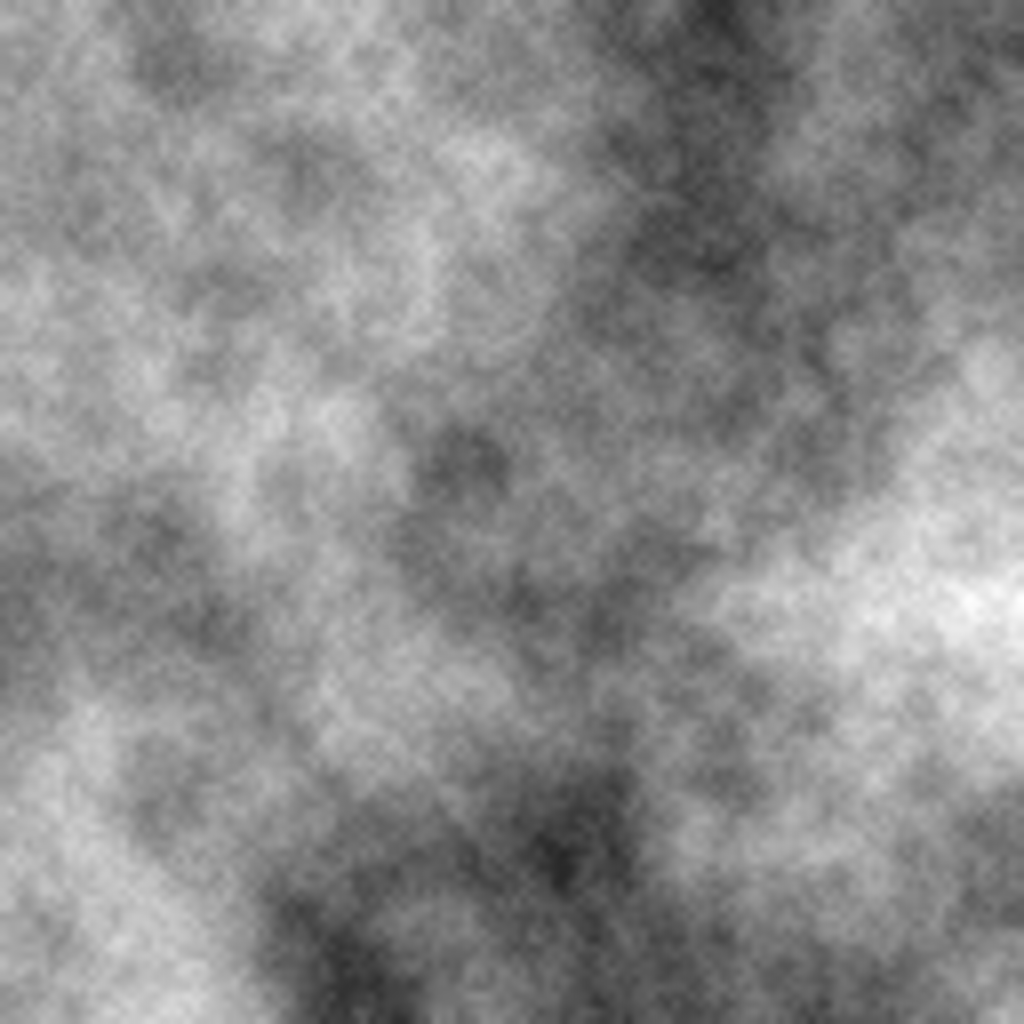
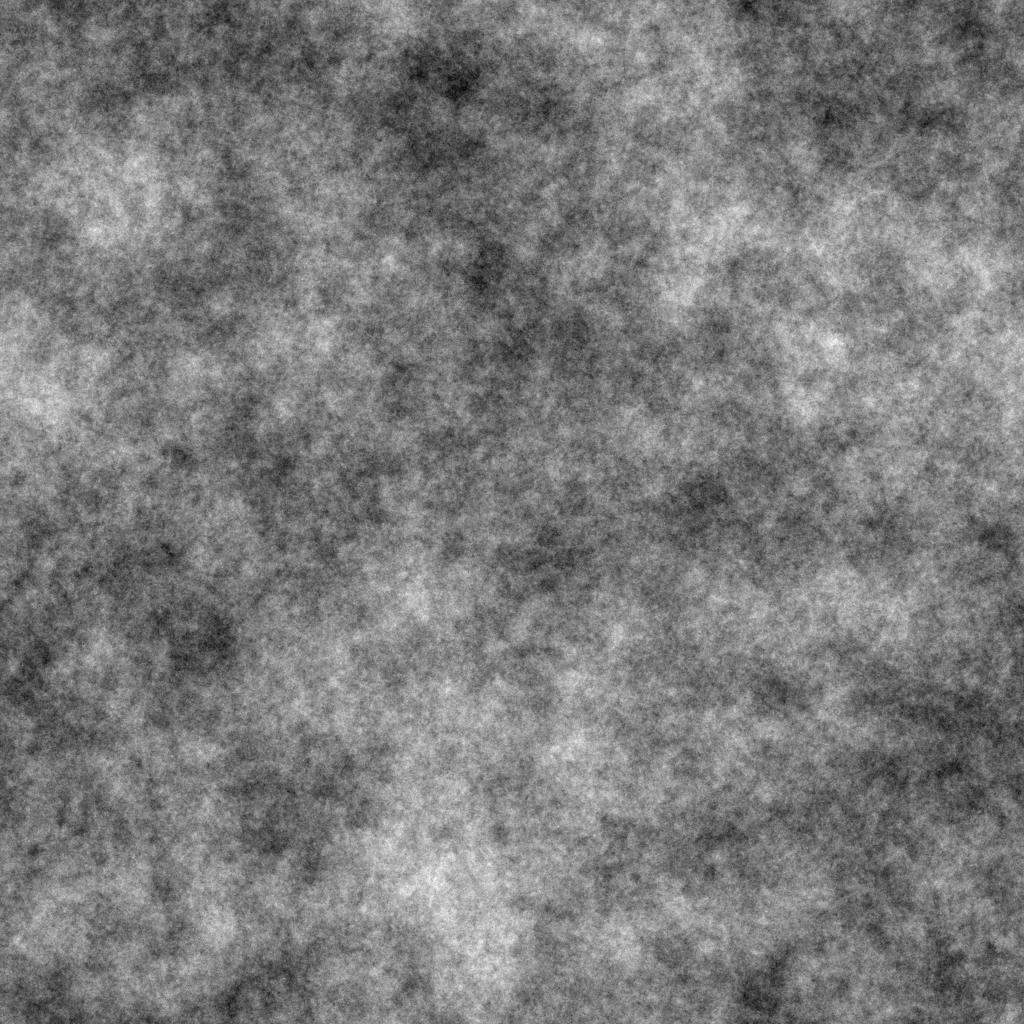
GTA 6 Short: seamless sea and relief textures (periodic noise), no tile seams
Claude-Session: https://claude.ai/code/session_01DMZ7CFPTajKZajZsT4vn8D

diff --git a/tools/gta6/prep_images.py b/tools/gta6/prep_images.py
@@ -42,19 +42,20 @@ for f in sorted(src.rglob("*.png")):
         print("poster", f.stem)
 
 rng = np.random.default_rng(5)
-def fbm(n, octs):
-    acc = np.zeros((n, n), np.float32)
-    for o in range(octs):
-        k = 2 ** (o + 2)
-        g = rng.random((k, k)).astype(np.float32)
-        acc += np.asarray(Image.fromarray((g * 255).astype(np.uint8)).resize((n, n), Image.BICUBIC), np.float32) / 255 / (o + 1)
-    return acc / acc.max()
+def fbm(n, beta):
+    """Periodic 1/f noise (FFT-filtered white noise): tiles seamlessly in both directions."""
+    f = np.fft.fftfreq(n)
+    r = np.sqrt(f[:, None] ** 2 + f[None, :] ** 2); r[0, 0] = 1
+    spec = np.fft.fft2(rng.standard_normal((n, n))) / r ** beta
+    spec[0, 0] = 0
+    x = np.real(np.fft.ifft2(spec))
+    return ((x - x.min()) / (x.max() - x.min())).astype(np.float32)
 n = 1024
 yy, xx = np.mgrid[0:n, 0:n] / n
-w = fbm(n, 5)
-rip = 0.5 + 0.5 * np.sin((xx * 9 + yy * 3 + w * 2.2) * 2 * np.pi)
+w = fbm(n, 1.4)
+rip = 0.5 + 0.5 * np.sin((xx * 9 + yy * 3 + w * 2.2) * 2 * np.pi)     # whole cycles across the tile: periodic too
 sea = (np.clip((rip ** 6) * 0.55 + w * 0.25, 0, 1) * 255).astype(np.uint8)
 Image.fromarray(np.dstack([sea * 0.35, sea * 0.75, sea]).astype(np.uint8)).save(prep / "sea_tex.png")
-rel = (fbm(n, 6) * 255).astype(np.uint8)
+rel = (fbm(n, 1.1) * 255).astype(np.uint8)
 Image.fromarray(rel).convert("RGB").save(prep / "relief.png")
-print("textures ok")
+print("textures ok (seamless)")
